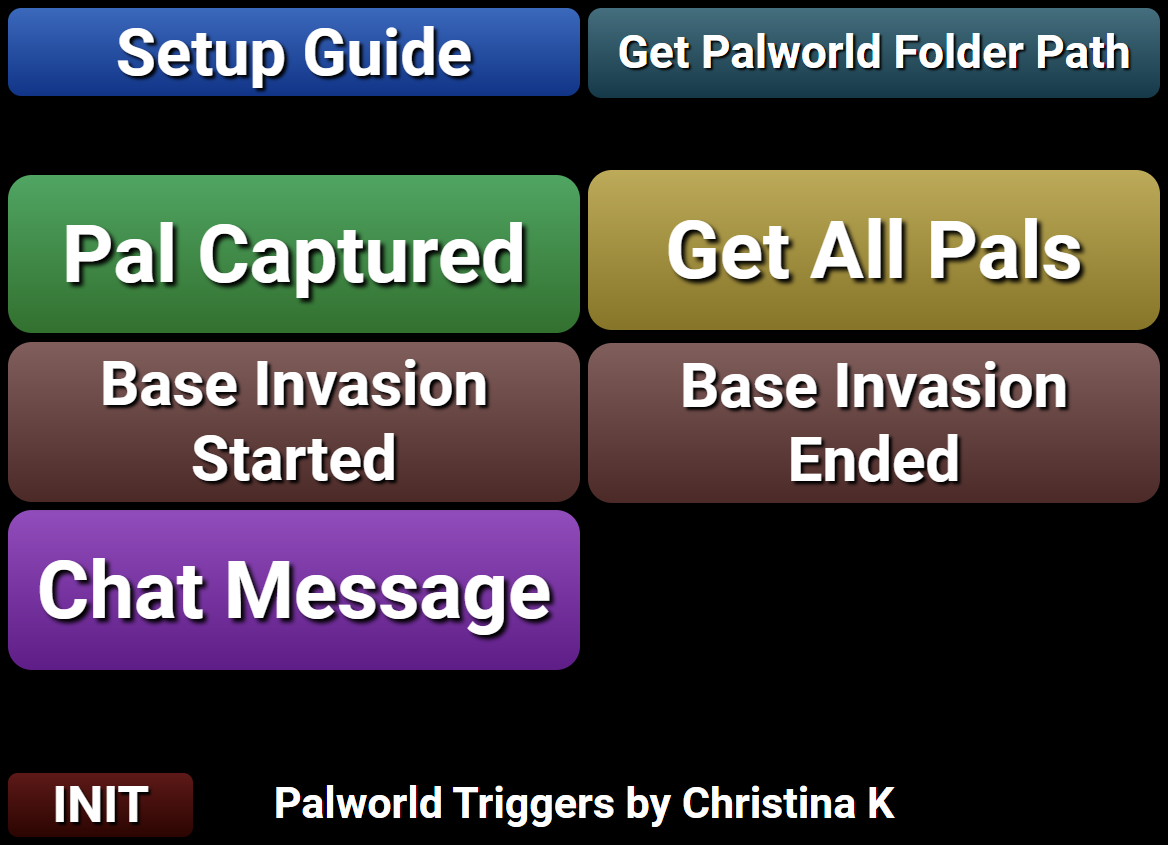
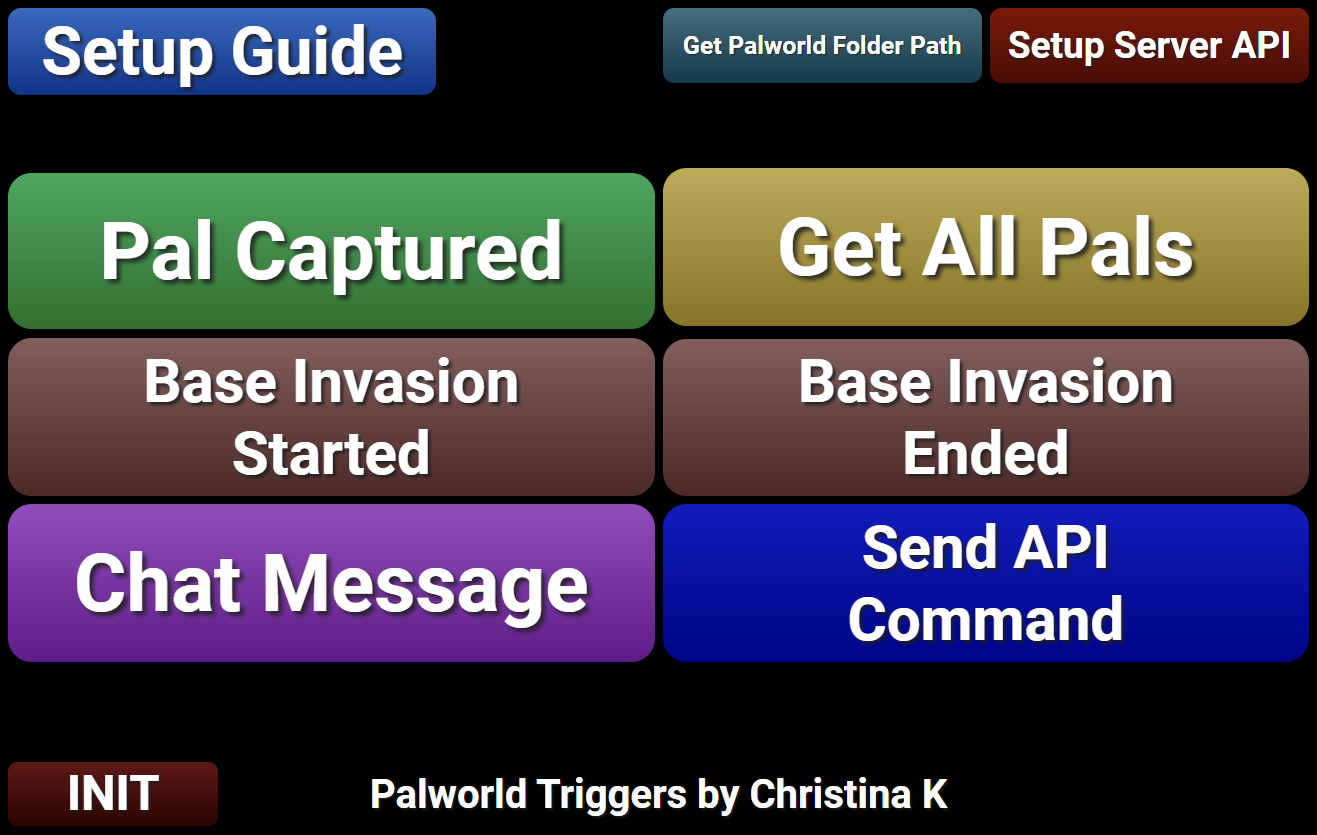
palworld update

diff --git a/collections/_extensions/palworld-triggers.md b/collections/_extensions/palworld-triggers.md
@@ -23,6 +23,13 @@ overview: |
     - **Base Invasion Alerts**: Triggered when your base is under attack or being visited by an NPC, providing details like enemy names.
     - **Chat Message Integration**: Captures all in-game chat messages, allowing you to view details like the message sender.
     - **Complete Pal Inventory**: A special feature that retrieves a list of all your owned pals, and information such as their names, levels, skills, and more.
+    - **API Commands for Dedicated Servers:**
+        - Get server info and metrics.
+        - Get list of current players.
+        - Send announcement messages in chat.
+        - Kick, ban, and unban players from the server.
+        - Save & Shut down the server remotely.
+        - And more!
 
     **Beta Version Warning**  
 
@@ -127,5 +134,40 @@ setup: |
     
     If you wish to START listening to Palworld events again, enable the Palworld Triggers deck, press INIT button
     and readd Pal\Binaries\Win64\Mods\SAMMI\enabled.txt. Restart your game.
+
+    #### API Server Setup
+    <div class="alert alert-warning mt-2" role="alert">Only works on Dedicated Servers</div>
+
+    Palworld API Request commands allow you to communicate with your Palworld server. 
+
+    **Requires the following setup:** 
+    1. Navigate to your Palworld Server -> `PalWorldSettings.ini` file
+        - - For example, the path for Steam is `SteamLibrary\steamapps\common\PalServer\Pal\Saved\Config\WindowsServer\PalWorldSettings.ini`
+        - If you use a 3rd party to modify your server settings, open that instead
+    2. Add or modify the following values in OptionSettings:
+        - `RESTAPIEnabled=true`
+        - `RESTAPIPort=8212`
+        - `AdminPassword="YOURPASSWORD"` (must NOT be empty)
+    3. Save the ini file and restart the Palworld server.
+        - In the Server log, you should see: `REST API started on port 8212`
+    4. Fill out the following inside the Setup Server API button in the Palworld Triggers deck: 
+        - Server Address: `127.0.0.1` if hosted locally, else insert the server address
+        - Server Port: `8212` (or whatever you set it to in step 2)
+        - Do Not Include Port: Check this if the port is already a part of the server address
+        - Server Password: `YOURPASSWORD` (whatever you set it to in step 2)
+    5. Reload Bridge.
+
+    #### API Commands
+    Available API commands: 
+    - Get Server Info
+    - Get Currently Connected Players
+    - Get Server Settings
+    - Get Server Metrics
+    - Announce message in chat
+    - Kick, ban and unban players
+    - Save the world
+    - Shutdown and force stop the server
+
+    You can view all the commands and their examples inside Send API Command button in the Palworld Triggers deck. 
 privacy_collect: false
 ---
